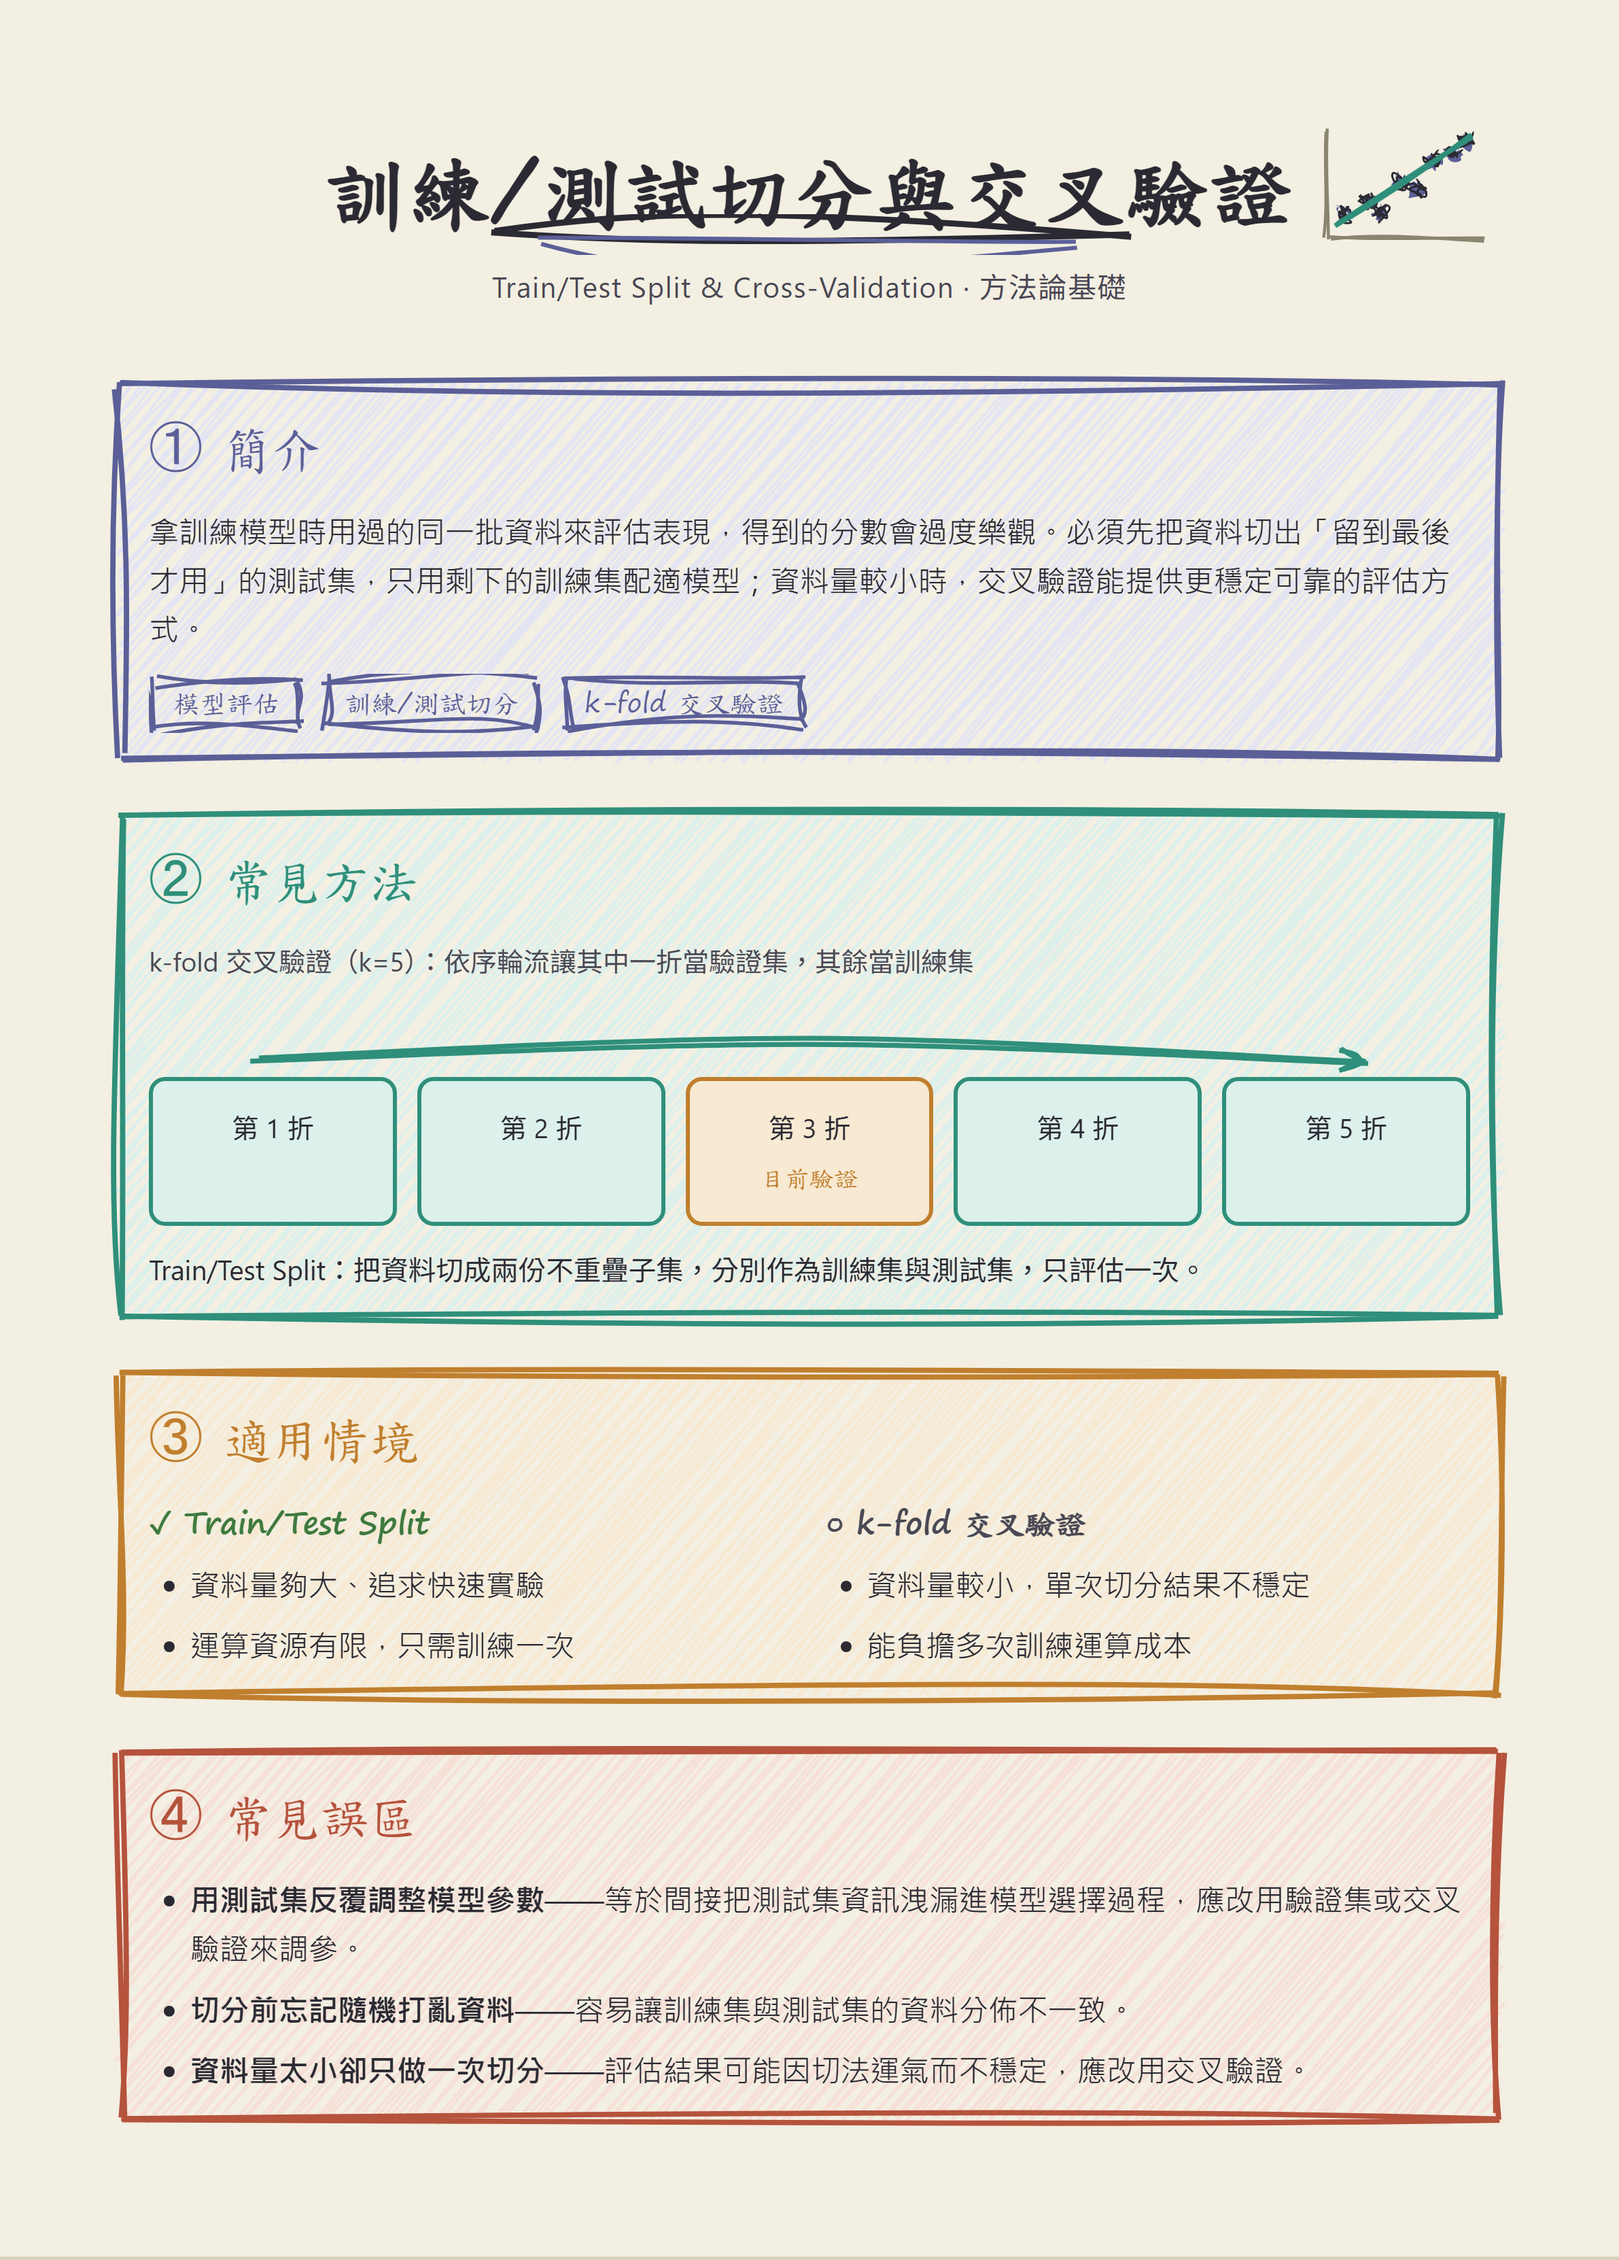
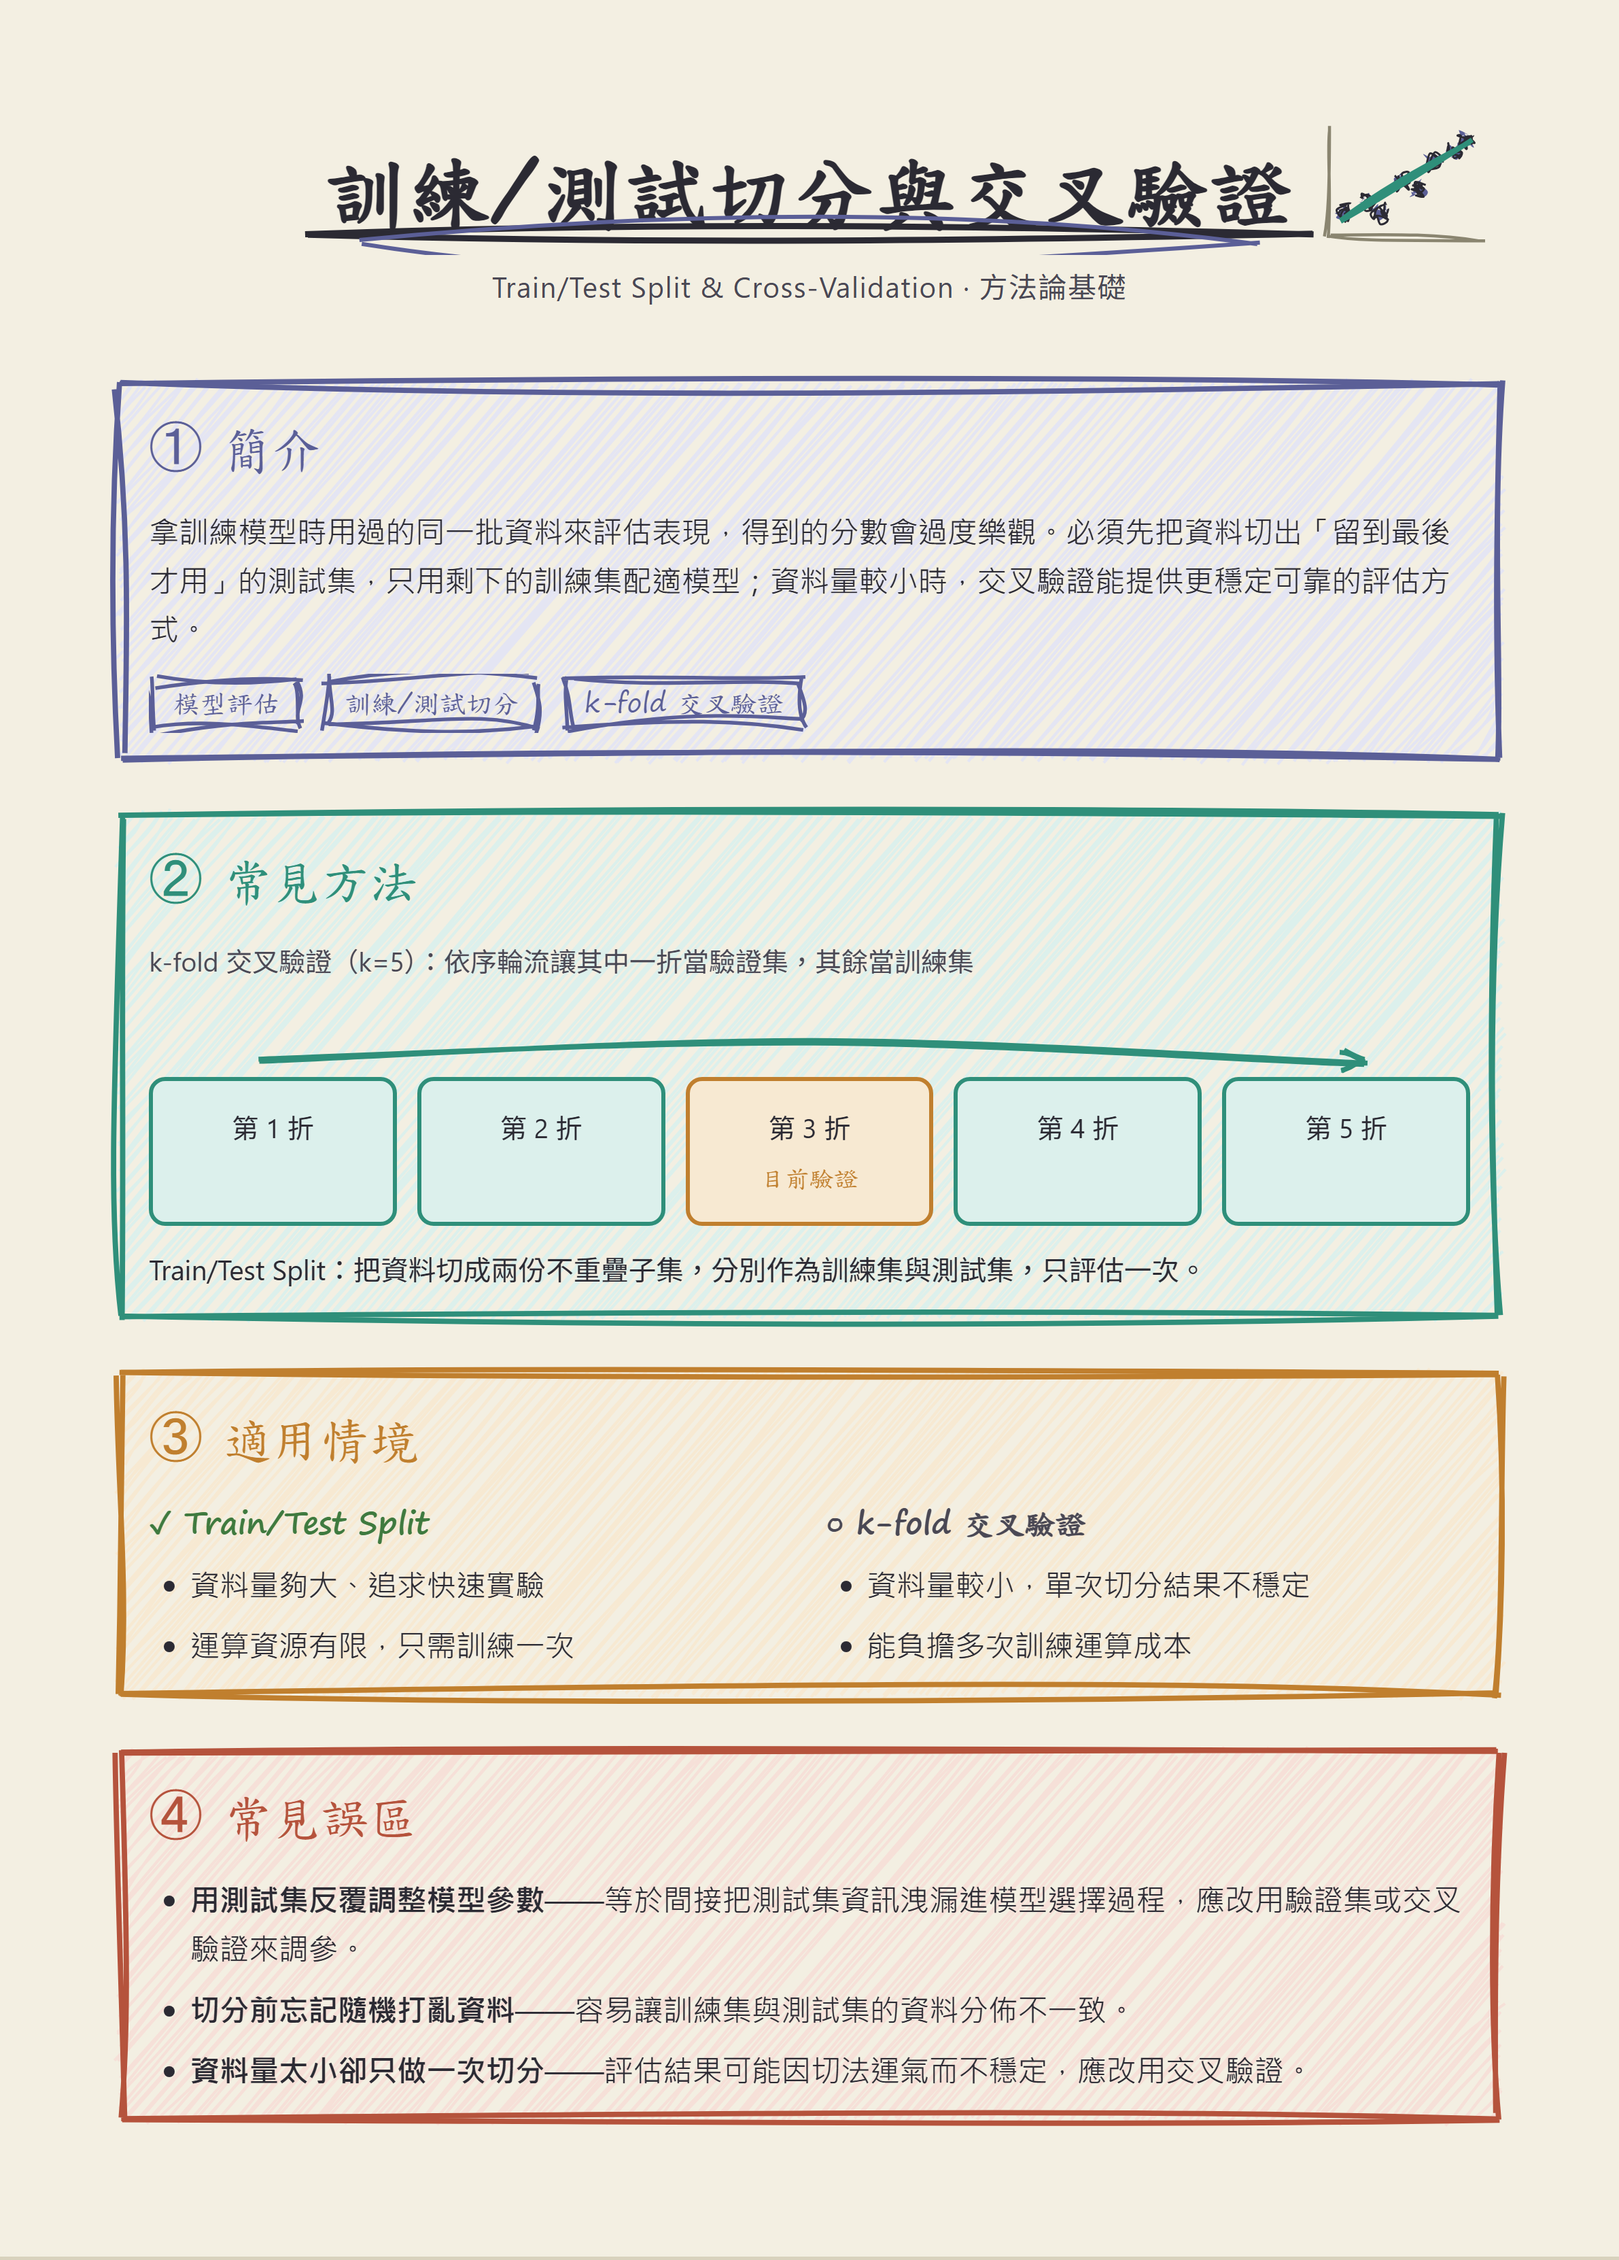
Fix interactive chart color legend and infographic title underline width
- TrainTestSplitComparison: give train/test(-validation) traces distinct
  y-axis category labels so the y-axis doubles as a color legend, matching
  the sibling FeatureScalingComparison pattern; reword x-axis title to
  reflect that indices are in original order, not shuffled order.
- Infographic HTML: widen .title-underline from 320px to 500px so it fully
  spans this chapter's 12-character title instead of reading as a
  strikethrough through the middle; re-rendered the PNG asset accordingly.

Changed region(s): [[0.1864, 0.062, 0.9009, 0.1239]]

diff --git a/src/components/charts/TrainTestSplitComparison.tsx b/src/components/charts/TrainTestSplitComparison.tsx
@@ -92,7 +92,7 @@ export default function TrainTestSplitComparison() {
               type: 'scatter',
               mode: 'markers',
               x: trainIndices,
-              y: trainIndices.map(() => '樣本'),
+              y: trainIndices.map(() => '訓練集'),
               marker: { size: 8, color: '#5ee6d0', opacity: 0.8 },
               name: '訓練集',
             },
@@ -100,7 +100,7 @@ export default function TrainTestSplitComparison() {
               type: 'scatter',
               mode: 'markers',
               x: secondaryIndices,
-              y: secondaryIndices.map(() => '樣本'),
+              y: secondaryIndices.map(() => secondaryLabel),
               marker: { size: 8, color: '#e6a15e', opacity: 0.9 },
               name: secondaryLabel,
             },
@@ -118,7 +118,7 @@ export default function TrainTestSplitComparison() {
             dragmode: false,
             showlegend: false,
             xaxis: {
-              title: '資料編號（洗牌後順序）',
+              title: '樣本編號（原始順序）',
               range: [-1, 50],
               ...axisStyle,
             },

diff --git a/docs/specs/assets-src/train-test-split-cross-validation-summary.html b/docs/specs/assets-src/train-test-split-cross-validation-summary.html
@@ -78,7 +78,7 @@
       left: 50%;
       top: 52px;
       transform: translateX(-50%);
-      width: 320px;
+      width: 500px;
       height: 20px;
     }
 
